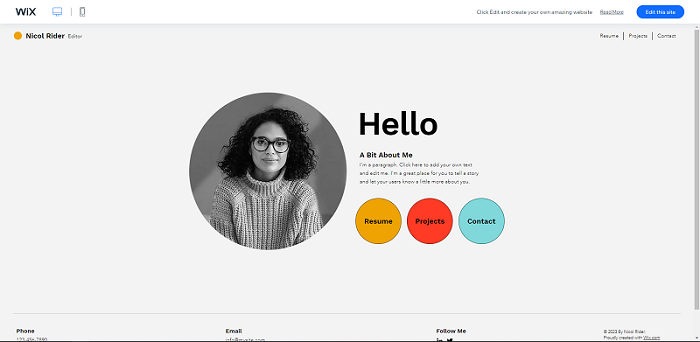
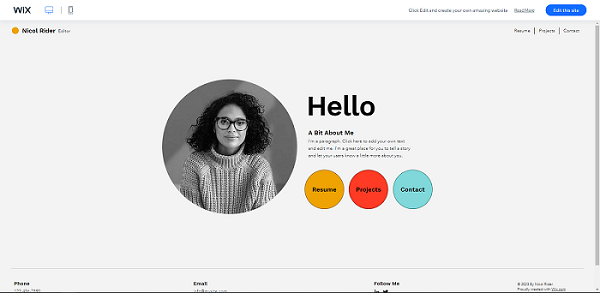
Fixed grammar and changed viewport issues

diff --git a/src/Components/Contact.js b/src/Components/Contact.js
@@ -1,4 +1,4 @@
-import { React, useState } from 'react';
+import { React, useState, useEffect } from 'react';
 import emailjs from 'emailjs-com';
 import { init } from 'emailjs-com';
 import Success from './success';
@@ -14,7 +14,7 @@ const userID = init(process.env.REACT_APP_USER_ID);
 
 const useStyles = makeStyles((theme) => ({
     root: {
-        [theme.breakpoints.down("xs")]: {
+        [theme.breakpoints.down("lg")]: {
             marginLeft: theme.spacing(2),
             marginRight: theme.spacing(2),
             marginTop: theme.spacing(2),
@@ -28,7 +28,7 @@ const useStyles = makeStyles((theme) => ({
         marginBottom: theme.spacing(1),
     },
     title: {
-        [theme.breakpoints.down("xs")]: {
+        [theme.breakpoints.down("md")]: {
             fontSize: 23,
         },
         fontWeight: theme.typography.fontWeightBold,
@@ -43,7 +43,7 @@ const useStyles = makeStyles((theme) => ({
         "&:hover": {
             cursor: "pointer",
         },
-        [theme.breakpoints.down("sm")]: {
+        [theme.breakpoints.down("md")]: {
             marginTop: theme.spacing(3),
         },
         marginTop: theme.spacing(3),
@@ -63,7 +63,6 @@ const useStyles = makeStyles((theme) => ({
 
 export default function Contact(props){
     const classes = useStyles();
-    const mobileView = props.mobileView;
     const [data, setData] = useState({
         first_name: "",
         last_name: "",
@@ -73,6 +72,19 @@ export default function Contact(props){
     });
     const [isEmail, setIsEmail] = useState(true);
     const [showSuccess, setShowSuccess] = useState(false);
+    const [viewPort, setViewPort] = useState(window.innerWidth);
+
+    useEffect(() => {
+        window.addEventListener("resize", handleViewPort);
+
+        return () => {
+            window.removeEventListener("resize", handleViewPort);
+        }
+    }, []);
+
+    const handleViewPort = () => {
+        setViewPort(window.innerWidth);
+    }
 
 
     const sendEmail = () => {
@@ -113,51 +125,52 @@ export default function Contact(props){
 
     return(
         <Box className={classes.root}>
+            {console.log(viewPort)}
             <Grid container xs={12} justify="center">
                 <Grid container xs={12} justify="center">
-                    <Grid item xs={12} sm={4}>
+                    <Grid item xs={12} md={4}>
                             <Box className={classes.contact}>
                                 <Typography variant="h4" className={classes.header}>Contact</Typography>
-                                <Typography variant={mobileView ? "body1" : "caption"}>Looking forward to hearing from you</Typography>
+                                <Typography variant={viewPort < 1280 ? "body1" : "subtitle1"}>Looking forward to hearing from you</Typography>
                             </Box>
                             <Box className={classes.info}>
                                 <Typography className={classes.title}>Phone</Typography>
-                                <Typography variant={mobileView ? "body1" : "caption"}>832-853-5119</Typography>
+                                <Typography variant={viewPort < 1280 ? "body1" : "subtitle1"}>832-853-5119</Typography>
                             </Box>
 
                             <Box className={classes.info}>
                                 <Typography className={classes.title}>Email</Typography>
-                                <Typography variant={mobileView ? "body1" : "caption"}>Eduardo.alvarado1234@ymail.com</Typography>
+                                <Typography variant={viewPort < 1280 ? "body1" : "subtitle1"}>Eduardo.alvarado1234@ymail.com</Typography>
                             </Box>
 
                     </Grid>
 
-                    <Grid container xs={12} sm={4} justify="flex-end">
+                    <Grid container xs={12} md={4} justify="flex-end">
                         {showSuccess ? <Grid item xs={12}>
                             <Box marginBottom="20px">
                                 <Success message="Email Sent!" />
                             </Box>
                         </Grid> : null}
                         <Grid container>
-                            <Grid item xs={12} sm={6} className={classes.field}>
-                                <TextField onChange={(e) => handleChange("first_name", e)} fullWidth={mobileView ? true : false} variant="outlined" id="first-name" label="First Name" />
+                            <Grid item xs={12} md={6} className={classes.field}>
+                                <TextField onChange={(e) => handleChange("first_name", e)} fullWidth={viewPort < 1280 ? true : false} variant="outlined" id="first-name" label="First Name" />
                             </Grid>
-                            <Grid item xs={12} sm={6} className={classes.field}>
-                                <TextField onChange={(e) => handleChange("last_name", e)} fullWidth={mobileView ? true : false}  variant="outlined" id="last-name" label="Last Name" />
+                            <Grid item xs={12} md={6} className={classes.field}>
+                                <TextField onChange={(e) => handleChange("last_name", e)} fullWidth={viewPort < 1280 ? true : false}  variant="outlined" id="last-name" label="Last Name" />
                             </Grid>
-                            <Grid item xs={12} sm={6}  className={classes.field}>
-                                {isEmail ? <TextField onChange={(e) => handleChange("email", e)} fullWidth={mobileView ? true : false}  required variant="outlined" id="email" label="Email" />
-                                : <TextField onChange={(e) => handleChange("email", e)} fullWidth={mobileView ? true : false}  error id="email-error" label="Email" defaultValue={data.email} variant="outlined" helperText="Please enter an email address." />}
+                            <Grid item xs={12} md={6}  className={classes.field}>
+                                {isEmail ? <TextField onChange={(e) => handleChange("email", e)} fullWidth={viewPort < 1280 ? true : false}  required variant="outlined" id="email" label="Email" />
+                                : <TextField onChange={(e) => handleChange("email", e)} fullWidth={viewPort < 1280 ? true : false}  error id="email-error" label="Email" defaultValue={data.email} variant="outlined" helperText="Please enter an email address." />}
                             </Grid>
-                            <Grid item xs={12} sm={6} className={classes.field}>
-                                <TextField onChange={(e) => handleChange("subject", e)} fullWidth={mobileView ? true : false}  variant="outlined" id="subject" label="Subject" />
+                            <Grid item xs={12} md={6} className={classes.field}>
+                                <TextField onChange={(e) => handleChange("subject", e)} fullWidth={viewPort < 1280 ? true : false}  variant="outlined" id="subject" label="Subject" />
                             </Grid>
                         </Grid>
                         <Grid container>
-                            <Grid item xs={12} sm={6} >
-                                <TextField className={classes.field} onChange={(e) => handleChange("message", e)} fullWidth={mobileView ? true : false}  variant="outlined" id="message" label="Message" multiline rows={4} fullWidth />
+                            <Grid item xs={12} md={6} >
+                                <TextField className={classes.field} onChange={(e) => handleChange("message", e)} fullWidth={viewPort < 1280 ? true : false}  variant="outlined" id="message" label="Message" multiline rows={4} fullWidth />
                             </Grid>
-                            <Grid container xs={12} sm={6}>
+                            <Grid container xs={12} md={6}>
                                 <Box onClick={() => sendEmail()} display="flex" className={classes.button} justifyContent="center" alignItems="center" marginLeft="15px">
                                     <Typography variant="h6">Submit</Typography>
                                 </Box>

diff --git a/src/Components/Resume.js b/src/Components/Resume.js
@@ -73,7 +73,7 @@ export default function Resume(props) {
                                 </Grid>
                                 <Grid item xs={12} lg={6}>
                                     <Typography variant={mobileView ? "h6" : "subtitle2"} className={classes.subtitle}>Web Developer Intern</Typography>
-                                    <Typography className={classes.body}>I Recently completed a web developer internship at a start up called Conceptia. During my time there, I worked on creating functional react components as well as creating and implementing API methods. The project utilized React for the front end, Node.js/Express for the backend, and mySQL for the database. I was able to gain valuable experience working with other like minded developers. I gained experience creating API methods with SQL statements using restful operations and implementing them to the frontend.</Typography>
+                                    <Typography className={classes.body}>I recently completed a web developer internship at a start-up called Conceptia. During my time there, I worked on creating functional react components as well as creating and implementing API methods. The project utilized React for the front end, Node.js/Express for the backend, and mySQL for the database. I was able to gain valuable experience working with other like minded-developers. I gained experience creating API methods with SQL statements using restful operations and implementing them to the frontend.</Typography>
                                 </Grid>
                             </Grid>
 
@@ -89,7 +89,7 @@ export default function Resume(props) {
                                 </Grid>
                                 <Grid item xs={12} lg={6}>
                                     <Typography variant={mobileView ? "h6" : "subtitle2"} className={classes.subtitle}>C.T Bauer College of Business | <br /> Bachelor's Degree</Typography>
-                                    <Typography className={classes.body}>During my time in the College of Business, I took an MIS intro course where the curriculum covered excel and its features. I discovered that I enjoyed thinking logically and creating functions that improved efficiency in the workflow. I then decided to take additional courses related to programming such as Intro into Object Oriented Programming. During this course I discovered how much I enjoyed programming and logical thinking which drove me to major in MIS. My electives consisted of more technical courses such as Intro Into Web Development, Intro Into LAMP stack, Advanced Database Management systems, and Advanced Transaction Processing Systems.</Typography>
+                                    <Typography className={classes.body}>During my time in the College of Business, I took an MIS intro course where the curriculum covered excel and its features. I discovered that I enjoyed thinking logically and creating functions that improved efficiency in the workflow. I then decided to take additional courses related to programming such as Intro into Object-Oriented Programming. During this course, I discovered how much I enjoyed programming and logical thinking which drove me to major in MIS. My electives consisted of more technical courses such as Intro Into Web Development, Intro Into LAMP stack, Advanced Database Management systems, and Advanced Transaction Processing Systems.</Typography>
                                 </Grid>
                             </Grid>
 
@@ -97,7 +97,7 @@ export default function Resume(props) {
 
                         <Grid container justify="center">
                             <Grid item xs={12} lg={4}>
-                                <Typography variant="h5" className={classes.title}>Skills <br /> & Expertise</Typography>
+                                <Typography variant="h5" className={classes.subtitle}>Skills <br /> & Expertise</Typography>
                             </Grid>
                             <Grid container xs={12} lg={4}>
                                 <Grid item xs={12} lg={3}></Grid>

diff --git a/src/Components/Projects.js b/src/Components/Projects.js
@@ -19,7 +19,7 @@ const useStyles = makeStyles((theme) => ({
     },
     header: {
         [theme.breakpoints.up("lg")]: {
-            marginLeft: theme.spacing(30),
+            // marginLeft: theme.spacing(30),
             marginBottom: theme.spacing(10),
         },
         fontWeight: theme.typography.fontWeightBold,
@@ -57,12 +57,14 @@ export default function Projects(props){
     return(
         <Box className={classes.root}>
             <Grid container xs={12} lg={12} className={classes.container}>
-                {/* <Grid container xs={12} lg={8}> */}
-                    <Grid item xs={12} lg={12}>
+                <Grid container xs={12} lg={12} justify="center">
+                    <Grid item xs={12} lg={9}>
                         <Typography variant="h4" className={classes.header}>Projects</Typography>
                     </Grid>
+                </Grid>
 
                     {/* <Box display="flex" className={classes.project}> */}
+                    <Grid container className={classes.container}>
                         <Grid item xs={12} lg={3} className={classes.project}>
                             <Box marginBottom="15px">
                                 <Typography variant="h6" className={classes.title}>Wallpaper Engine</Typography>
@@ -92,19 +94,21 @@ export default function Projects(props){
                                 {mobileView ? <img src="/Images/wallpaper-engine-mobile.png" /> : <img src="/Images/wallpaper-engine.png" alt="" />}
                             </Box>
                         </Grid>
+                    </Grid>
                     {/* </Box> */}
 
-
+                    <Grid container className={classes.container}>
                     {/* <Box display="flex" className={classes.project}> */}
-                        <Grid item xs={12} lg={4} className={classes.project}>
+                        <Grid item xs={12} lg={3} className={classes.project}>
                             <Typography variant="h6" className={classes.title}>Resume Website</Typography>
-                            <Typography variant="body2" className={classes.body}>I created this website to display my resume and skills and to also show that if given a website design, I can implement it using html/css/javascript. This website is based off of <a href="https://www.wix.com/website-template/view/html/2846?siteId=9dabe0d0-1603-4a04-9bd6-7d9d9ca9e9cb&metaSiteId=3e8b1a18-1c30-41cf-87ac-e18816787ea8&originUrl=https%3A%2F%2Fwww.wix.com%2Fwebsite%2Ftemplates%2Fhtml%2Fportfolio-cv&tpClick=view_button" target="_blank">this</a> this design and utilizes the React framework. </Typography>
+                            <Typography variant="body2" className={classes.body}>I created this website to display my resume and skills and to also show that if given a website design, I can implement it using html/css/javascript. This website is based on <a href="https://www.wix.com/website-template/view/html/2846?siteId=9dabe0d0-1603-4a04-9bd6-7d9d9ca9e9cb&metaSiteId=3e8b1a18-1c30-41cf-87ac-e18816787ea8&originUrl=https%3A%2F%2Fwww.wix.com%2Fwebsite%2Ftemplates%2Fhtml%2Fportfolio-cv&tpClick=view_button" target="_blank">this</a> design and utilizes the React framework. </Typography>
                         </Grid>
-                        <Grid item xs={12} lg={5}>
+                        <Grid item xs={12} lg={6}>
                             <Box className={classes.img}>
                                 {mobileView ? <img src="/Images/website-design-mobile.png" /> : <img src="/Images/website-design.png" alt="" />}
                             </Box>
                         </Grid>
+                    </Grid>
                     {/* </Box> */}
                 {/* </Grid> */}
             </Grid>

diff --git a/src/Components/HomeComponent.js b/src/Components/HomeComponent.js
@@ -57,7 +57,7 @@ export default function HomeComponent(props) {
                             <Box className={classes.block}>
                                 <Typography className={classes.title} variant={mobileView ? "h3" : "h1"}>Hello</Typography>
                                 <Typography className={classes.subtitle} variant="h5">A Bit About Me</Typography>
-                                <Typography variant="subtitle1">Hi, My name is Eduardo. I am an aspiring developer currently working on personal web development projects. I graduated from the University of Houston under the C.T Bauer College of Business with a degree in Management Information Systems with magna cum laude honors.</Typography>
+                                <Typography variant="subtitle1">Hi, my name is Eduardo. I am an aspiring developer currently working on personal web development projects. I graduated from the University of Houston under the C.T Bauer College of Business with a degree in Management Information Systems with Magna Cum Laude honors.</Typography>
                                 <Grid container className={classes.buttons} xs={12}>
                                     <Grid item>
                                         <NavButton handleClick={handleComponentChange} mobileView={mobileView} color="#3f51b5"  slide={1500} title="Resume" textColor="#fff"/>

diff --git a/src/Components/Footer.js b/src/Components/Footer.js
@@ -47,7 +47,7 @@ export default function Footer(props) {
                 </Grid>
                 <Grid item xs={12} md={3} className={classes.item}>
                     <Typography variant={mobileView ? "h5" : "subtitle1"} className={classes.title}>Email</Typography>
-                    <Typography variant={mobileView ? "body1" : "subtitle2"}>Eduardo.Alvarado1234@ymail.com</Typography>
+                    <Typography variant={mobileView ? "body1" : "subtitle2"}>Eduardo.alvarado1234@ymail.com</Typography>
                 </Grid>
                 <Grid item xs={12} md={3} className={classes.item}>
                     <Typography variant={mobileView ? "h5" : "subtitle1"} className={classes.title}>Github</Typography>

diff --git a/src/Components/NavButton.js b/src/Components/NavButton.js
@@ -9,7 +9,7 @@ const useStyles = makeStyles((theme) => ({
         "&:hover": {
             cursor: "pointer",
         },
-        [theme.breakpoints.down("xs")]: {
+        [theme.breakpoints.down("lg")]: {
             width: 100,
             height: 100,
         },
